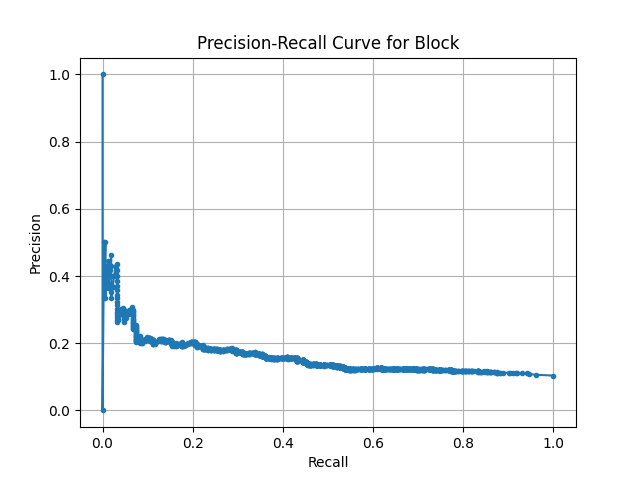
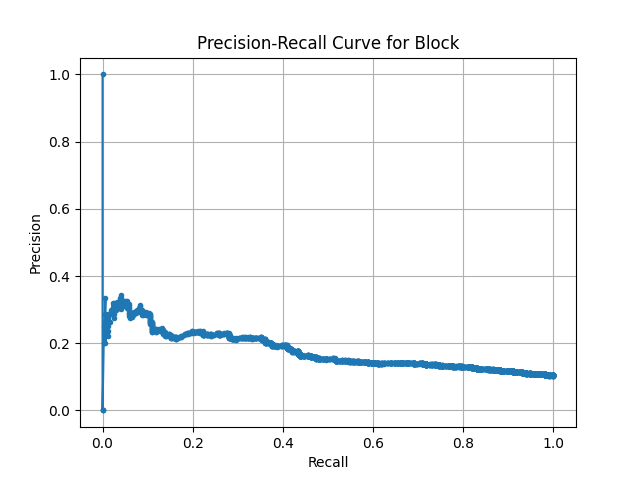
11/11/2025 - Commit 2 - 12.pt
- Regenerated PR curves, thresholds, and inferences on 12.pt, which has the lowest cv_loss
- Coded file to find the model checkpoint with lowest CV losses

Changed region(s): [[0.1562, 0.5, 0.875, 0.8125]]

diff --git a/interspeech2024-code/eval/find_best_checkpoint.py b/interspeech2024-code/eval/find_best_checkpoint.py
@@ -1,0 +1,39 @@
+# Program for finding the StutterNet model checkpoint with the lowest cv loss
+# Cynthia Chen 11/11/2025
+
+import os
+import yaml
+
+def find_best_checkpoint(model_dir):
+    best_loss = float('inf')  # initialize best loss to infinity
+    best_file = None
+
+    # For each .yaml file in the model directory
+    for fname in os.listdir(model_dir):
+        if fname.endswith('.yaml'):
+            path = os.path.join(model_dir, fname)
+
+            # read file contents
+            try:
+                with open(path, 'r', encoding='utf-8') as f:
+                    data = yaml.safe_load(f)
+                
+                if 'cv_loss' in data:
+                    loss = float(data['cv_loss'])
+                    # update best loss
+                    if loss < best_loss:
+                        best_loss = loss
+                        best_file = fname
+                    
+            except Exception as e:
+                print(f'Skipping {fname}: {e}')
+
+    if best_file:
+        print(f'Best checkpoint: {best_file}')
+        print(f'Lowest cv_loss: {best_loss:.6f}')
+    else:
+        print('No valid .yaml files found or none contained cv_loss.')
+
+if __name__ == '__main__':
+    model_dir = 'C:\\Users\\crc24\\Documents\\VS_Code_Python_Folder\\ScienceFair2025\\interspeech2024-code\\exp\\stutternet_en'  # adjust path as needed
+    find_best_checkpoint(model_dir)

diff --git a/interspeech2024-code/sed/wenet/wenet/bin/infer_sed.py b/interspeech2024-code/sed/wenet/wenet/bin/infer_sed.py
@@ -45,6 +45,7 @@ def get_args():
                         help='gpu id for this rank, -1 for cpu')
     parser.add_argument('--checkpoint', required=True, help='checkpoint model')
     parser.add_argument('--cmvn', required=True, help='path to CMVN file')  # added
+    parser.add_argument('--threshold', required=True, help='path to threshold file')  # added
     parser.add_argument('--penalty',
                         type=float,
                         default=0.0,
@@ -142,7 +143,8 @@ def main():
     device = torch.device('cuda' if use_cuda else 'cpu')
     model = model.to(device)
     model.eval()
-    threshold = torch.Tensor([[0.42, 0.35, 0.37, 0.37, 0.4]]).to(device)
+    # threshold = torch.Tensor([[0.42, 0.35, 0.37, 0.37, 0.4]]).to(device)  # old thresholds
+    threshold = torch.load(args.threshold).to(device)  # load computed thresholds
     print(f'threshold {threshold}')
 
     # TODO(Dinghao Zhou): Support RNN-T related decoding

diff --git a/interspeech2024-code/sed/wenet/wenet/bin/compute_thresholds.py b/interspeech2024-code/sed/wenet/wenet/bin/compute_thresholds.py
@@ -18,6 +18,9 @@ from wenet.utils.init_model import init_model
 from wenet.utils.checkpoint import load_checkpoint
 from wenet.utils.config import override_config
 
+# Debug flag
+DEBUG = True
+
 def get_args():
     p = argparse.ArgumentParser()
     p.add_argument('--config', required=True, help='training config yaml')
@@ -130,6 +133,10 @@ def main():
     # Produces new lists so that shape is (num_samples, num_classes) and there aren't different sublists for each different batch
     all_probs = np.concatenate(all_probs, axis=0)
     all_labels = np.concatenate(all_labels, axis=0)
+
+    # Debugging
+    if DEBUG:
+        print("Min prob:", np.min(all_probs), "Max prob:", np.max(all_probs))
 
     # Per-class F1-optimal thresholds via PR curve
     num_classes = all_probs.shape[1]

diff --git a/interspeech2024-code/tools/cmvn_dim_check.py b/interspeech2024-code/tools/cmvn_dim_check.py
@@ -1,0 +1,8 @@
+# Quick file to confirm that the CMVN was indeed computed from the MFCC 40 dims
+
+import json
+
+with open('C:\\Users\\crc24\\Documents\\VS_Code_Python_Folder\\ScienceFair2025\\interspeech2024-code\\data\\train\\global_cmvn', 'r') as f:
+    cmvn = json.load(f)
+
+print("mean_stat length:", len(cmvn['mean_stat']))  # if 40 means it's MFCC correct, if 80 then uh oh
